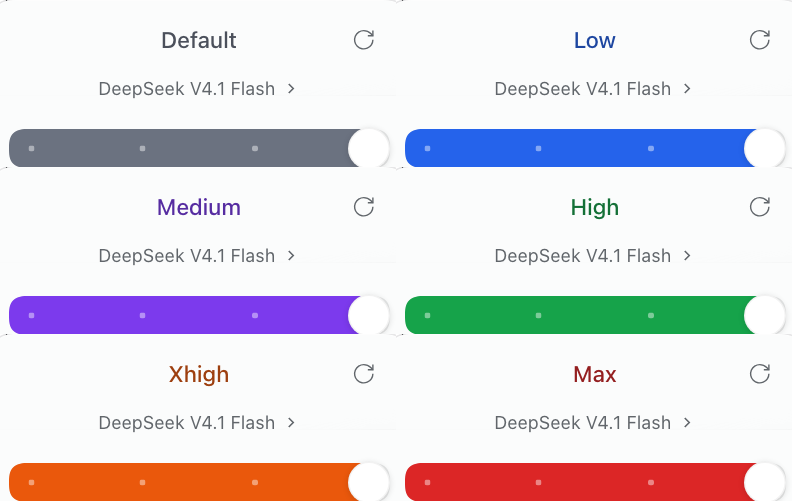
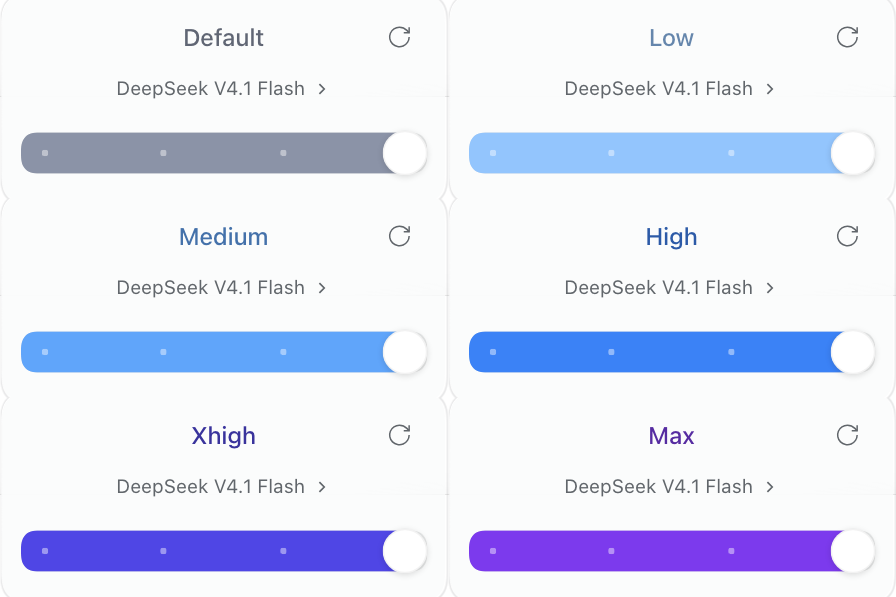
style(codex-fast): use a blue-violet effort ramp
Replace the saturated rainbow palette with a single-hue progression from blue-grey through light blue and blue to indigo and violet, closer to the DSH visual language. Fast keeps its separate gold ramp.

Screenshots regenerated from the running page; palette grid trimmed. No behaviour change.

diff --git a/dsh-codex-fast/client.js b/dsh-codex-fast/client.js
@@ -6,13 +6,13 @@ window.__ModuleLoader__.load({
     const { createPortal } = require('react-dom')
     const { MenuSurface, useAnchoredPosition, useDismissOnOutsidePointer, IconRefreshOutlineRegular, IconSlidersTwoOutlineRegular } = require('@deepseek-ai/dsh-client-ui-primitives')
     const styles = `
-      .mc-root, .mc-panel { --mc-effort: #6b7280; --mc-fill: var(--mc-effort); --mc-ink: color-mix(in srgb, var(--mc-fill) 65%, var(--dsw-alias-label-primary, #0f1115)); }
-      .mc-root[data-level="0"], .mc-panel[data-level="0"] { --mc-effort: #6b7280; }
-      .mc-root[data-level="1"], .mc-panel[data-level="1"] { --mc-effort: #2563eb; }
-      .mc-root[data-level="2"], .mc-panel[data-level="2"] { --mc-effort: #7c3aed; }
-      .mc-root[data-level="3"], .mc-panel[data-level="3"] { --mc-effort: #16a34a; }
-      .mc-root[data-level="4"], .mc-panel[data-level="4"] { --mc-effort: #ea580c; }
-      .mc-root[data-level="5"], .mc-panel[data-level="5"] { --mc-effort: #dc2626; }
+      .mc-root, .mc-panel { --mc-effort: #8b93a7; --mc-fill: var(--mc-effort); --mc-ink: color-mix(in srgb, var(--mc-fill) 65%, var(--dsw-alias-label-primary, #0f1115)); }
+      .mc-root[data-level="0"], .mc-panel[data-level="0"] { --mc-effort: #8b93a7; }
+      .mc-root[data-level="1"], .mc-panel[data-level="1"] { --mc-effort: #93c5fd; }
+      .mc-root[data-level="2"], .mc-panel[data-level="2"] { --mc-effort: #60a5fa; }
+      .mc-root[data-level="3"], .mc-panel[data-level="3"] { --mc-effort: #3b82f6; }
+      .mc-root[data-level="4"], .mc-panel[data-level="4"] { --mc-effort: #4f46e5; }
+      .mc-root[data-level="5"], .mc-panel[data-level="5"] { --mc-effort: #7c3aed; }
       .mc-root[data-fast="true"][data-level="0"], .mc-panel[data-fast="true"][data-level="0"] { --mc-fill: #c9b48c; }
       .mc-root[data-fast="true"][data-level="1"], .mc-panel[data-fast="true"][data-level="1"] { --mc-fill: #dfc07a; }
       .mc-root[data-fast="true"][data-level="2"], .mc-panel[data-fast="true"][data-level="2"] { --mc-fill: #d8a94f; }

diff --git a/dsh-codex-fast/README.md b/dsh-codex-fast/README.md
@@ -8,7 +8,7 @@
 
 ![六个推理等级的配色](docs/effort-levels.png)
 
-每个推理等级有自己的颜色：Default 灰、Low 蓝、Medium 紫、High 绿、Xhigh 橙、Max 红，等级标题、滑杆和输入框胶囊上的小圆点同步变色。Fast 开启后改用由浅到深的金色梯度，仍然能看出档位差别。
+每个推理等级有自己的颜色：Default 蓝灰、Low 浅蓝、Medium 天蓝、High 蓝、Xhigh 靛蓝、Max 紫，等级标题、滑杆和输入框胶囊上的小圆点同步变色。Fast 开启后改用由浅到深的金色梯度，仍然能看出档位差别。
 
 浮层顶部是当前推理等级，左侧是 Fast，右侧是重置；中间一行切换模型；底部是按档位的推理强度滑杆。点击输入框里的胶囊重新打开，`Esc` 关闭并把焦点还给胶囊。
 
